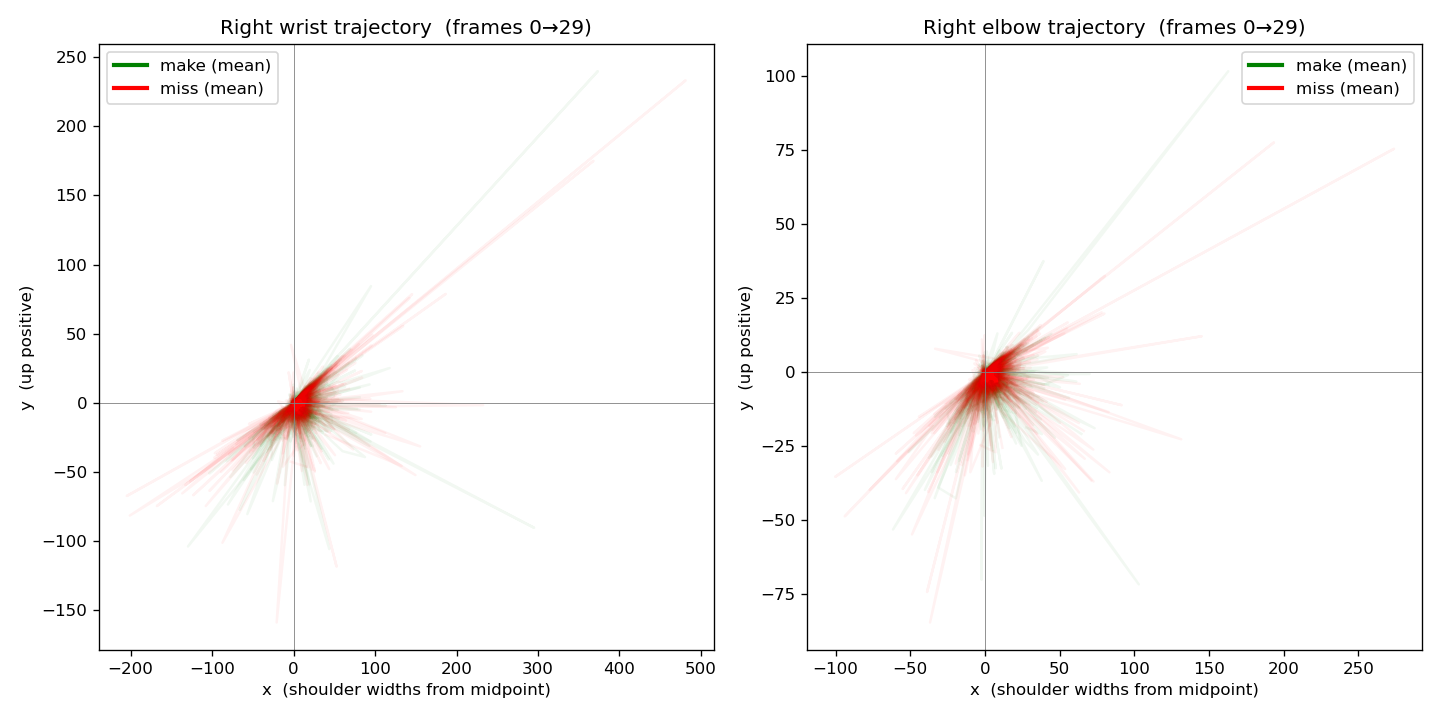
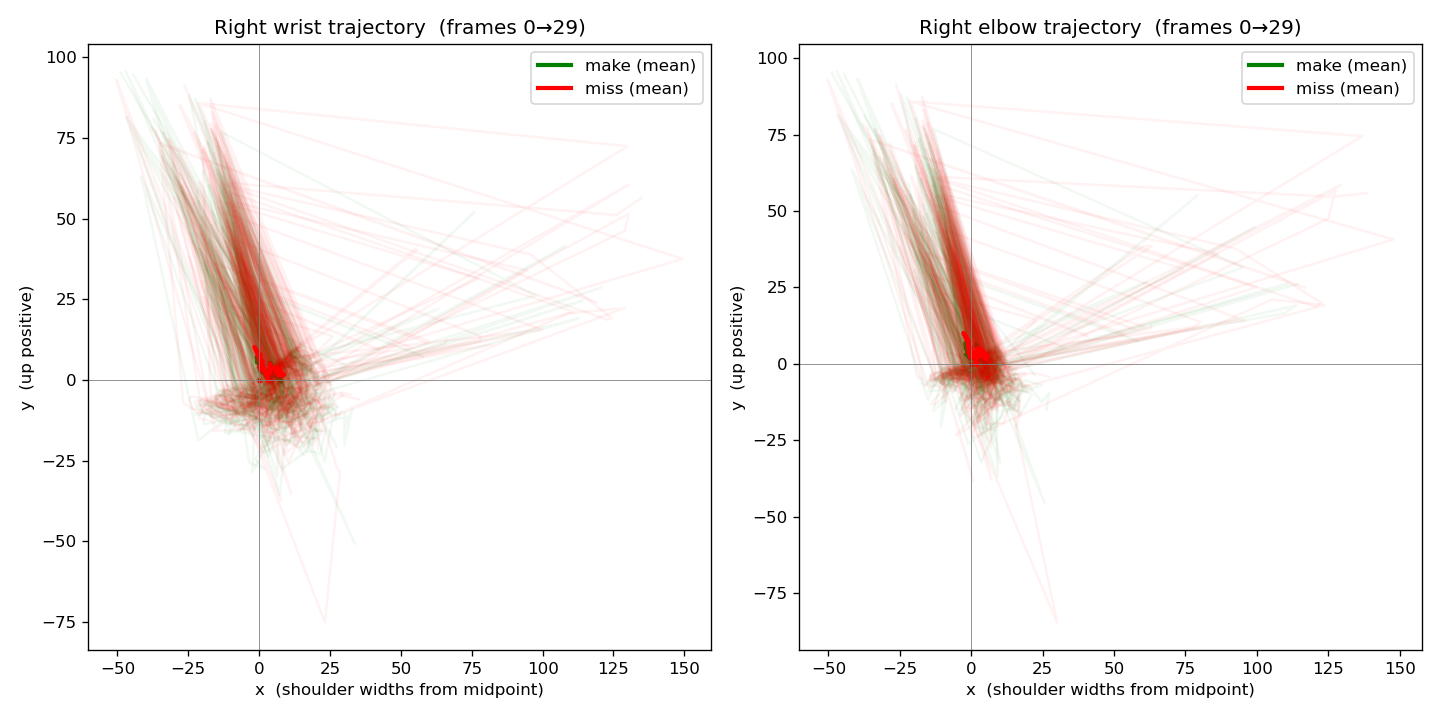
features: drop shots with broken-normalization extreme magnitudes

diff --git a/features.py b/features.py
@@ -25,20 +25,36 @@ def elbow_angle(frame_kps):
 
 
 def shot_features(kps):
-    # kps shape: (30, 9, 3) — 30 frames, 9 joints, [x, y, visibility]
-    angles = np.array([elbow_angle(kps[f]) for f in range(30)])
-    wrist_y = kps[:, RWRI, 1]
+    # kps shape: (30, 9, 3) — 30 frames, 9 joints, [x, y, visibility].
+    # Mask out frames where the right wrist wasn't reliably detected. MediaPipe stores
+    # failed frames as (0, 0, 0), which would otherwise win .argmin() on wrist y and
+    # corrupt every release-invariant feature.
+    valid = kps[:, RWRI, 2] > 0.3
+    if valid.sum() < 5:
+        return None  # too little real wrist data to compute features safely
+
+    angles = np.full(30, np.nan)
+    for f in range(30):
+        if valid[f]:
+            angles[f] = elbow_angle(kps[f])
+
+    wrist_y = np.where(valid, kps[:, RWRI, 1], np.nan)
+    wrist_x = np.where(valid, kps[:, RWRI, 0], np.nan)
 
     # Image y-axis points down, so the highest wrist position is the minimum y.
-    peak_wrist_frame = int(wrist_y.argmin())
+    peak_wrist_frame = int(np.nanargmin(wrist_y))
+
+    # drive_amplitude uses the first *valid* frame as the baseline — frame 0 itself
+    # might be a failed-detection frame, in which case its raw 0 isn't a real position.
+    first_valid = int(np.argmax(valid))
 
     return {
-        'max_elbow_extension': float(angles.max()),
-        'release_frame_est':   int(angles.argmax()),
-        'peak_wrist_height':   float(-wrist_y.min()),
+        'max_elbow_extension': float(np.nanmax(angles)),
+        'release_frame_est':   int(np.nanargmax(angles)),
+        'peak_wrist_height':   float(-np.nanmin(wrist_y)),
         'peak_wrist_frame':    peak_wrist_frame,
-        'drive_amplitude':     float(wrist_y[0] - wrist_y.min()),
-        'follow_through_x':    float(kps[peak_wrist_frame, RWRI, 0]),
+        'drive_amplitude':     float(wrist_y[first_valid] - np.nanmin(wrist_y)),
+        'follow_through_x':    float(wrist_x[peak_wrist_frame]),
     }
 
 
@@ -46,18 +62,37 @@ manifest = pd.read_csv(MANIFEST)
 print(f"loading {len(manifest)} shots...")
 
 rows = []
+skipped = 0
 for _, row in manifest.iterrows():
     kps = np.load(KEYPOINTS_DIR / row['filename'])
     feats = shot_features(kps)
+    if feats is None:
+        skipped += 1
+        continue
     feats['filename'] = row['filename']
     feats['label_int'] = int(row['label_int'])
     rows.append(feats)
+
+if skipped:
+    print(f"skipped {skipped} shots with too few valid wrist frames")
 
 features = pd.DataFrame(rows)
 features = features[['filename', 'label_int',
                      'max_elbow_extension', 'release_frame_est',
                      'peak_wrist_height', 'peak_wrist_frame',
                      'drive_amplitude', 'follow_through_x']]
+
+# Drop shots with truly impossible feature magnitudes — these are normalization
+# blow-ups (MediaPipe measured shoulder width as ~0 on a rotated/occluded shot, so
+# every coordinate divides into a huge number). A 20-shoulder-width displacement is
+# physically impossible; values below that may be noisy but could still be real
+# signal from far-camera shots, so we keep them and let the models handle the noise.
+plausible = (features['drive_amplitude'] <= 20) & (features['follow_through_x'].abs() <= 20)
+n_dropped = (~plausible).sum()
+features = features[plausible].reset_index(drop=True)
+if n_dropped:
+    print(f"dropped {n_dropped} shots with broken normalization (extreme magnitudes)")
+
 features.to_csv(OUT, index=False)
 
 print(f"saved {len(features)} rows to {OUT}\n")

diff --git a/extract_keypoints.py b/extract_keypoints.py
@@ -77,7 +77,7 @@ def normalize_keypoints(keypoints):
     center = (ls + rs) / 2.0
     width  = np.linalg.norm(rs - ls)
 
-    if width < 0.02:  # shoulders coincident across the whole shot — unfixable, leave raw
+    if width < 0.005:  # truly degenerate shoulders (shooter offscreen / pose collapse) — leave raw
         return keypoints
 
     normalized = keypoints.copy()
